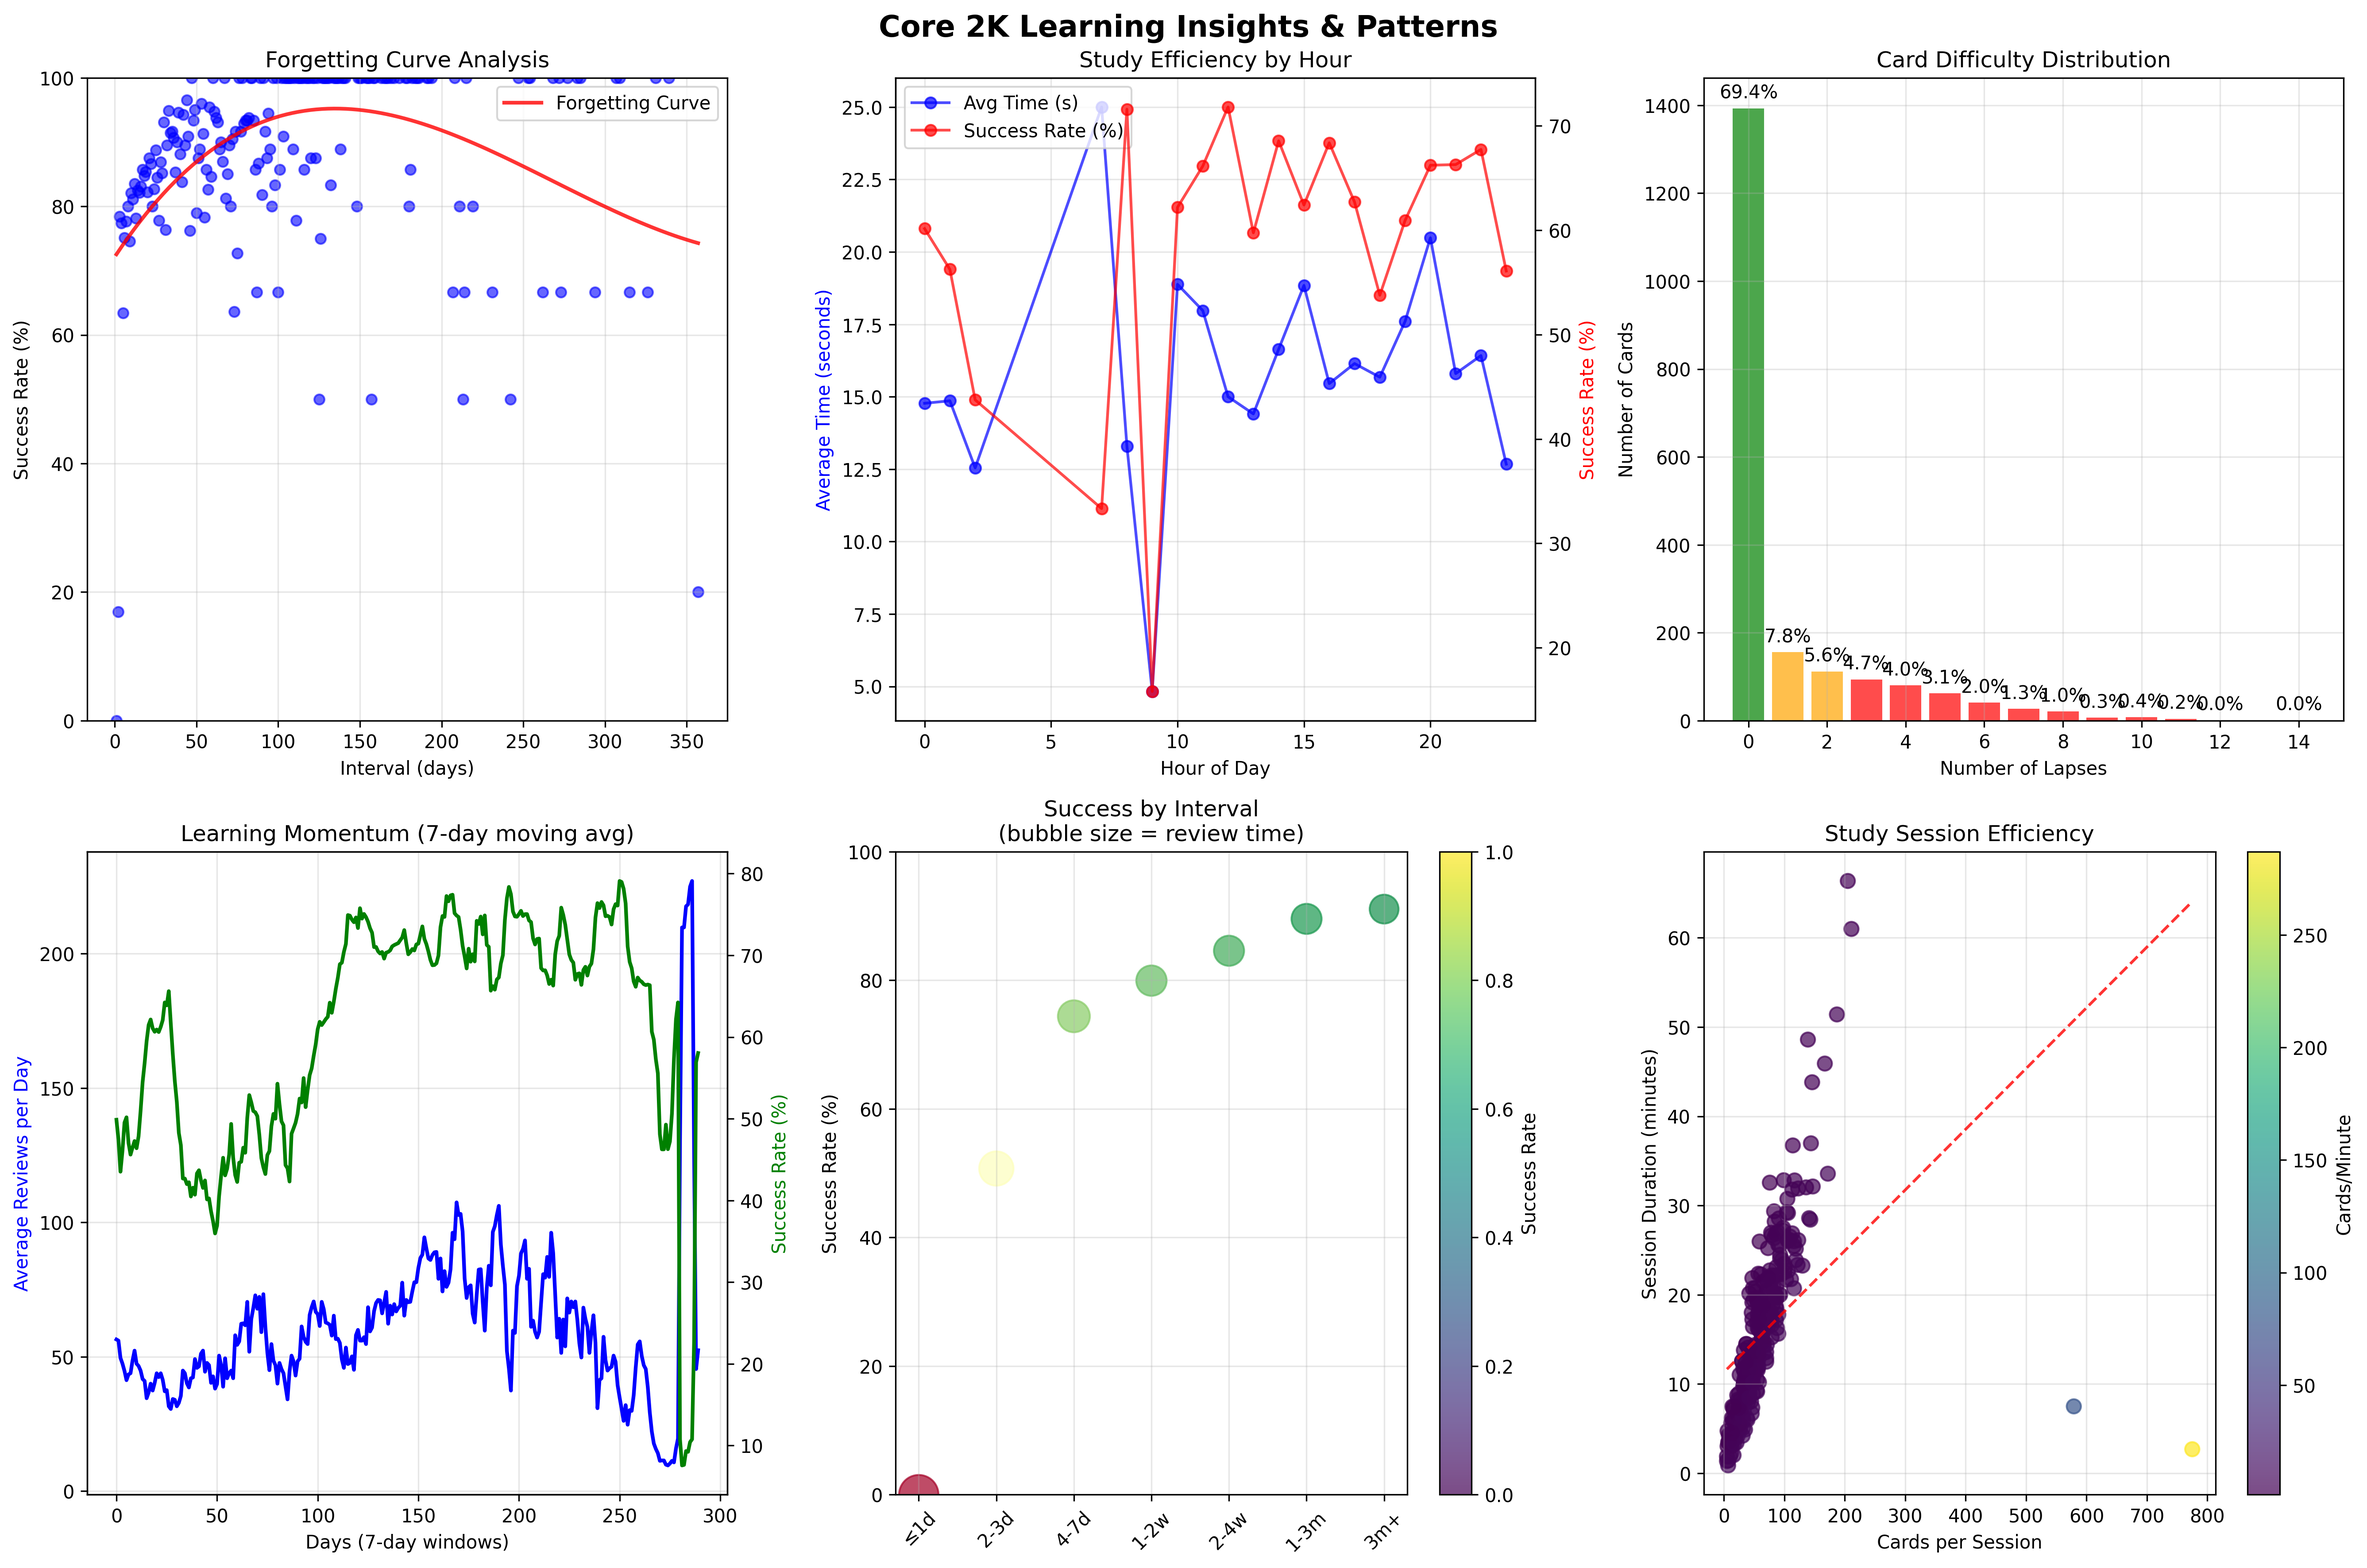
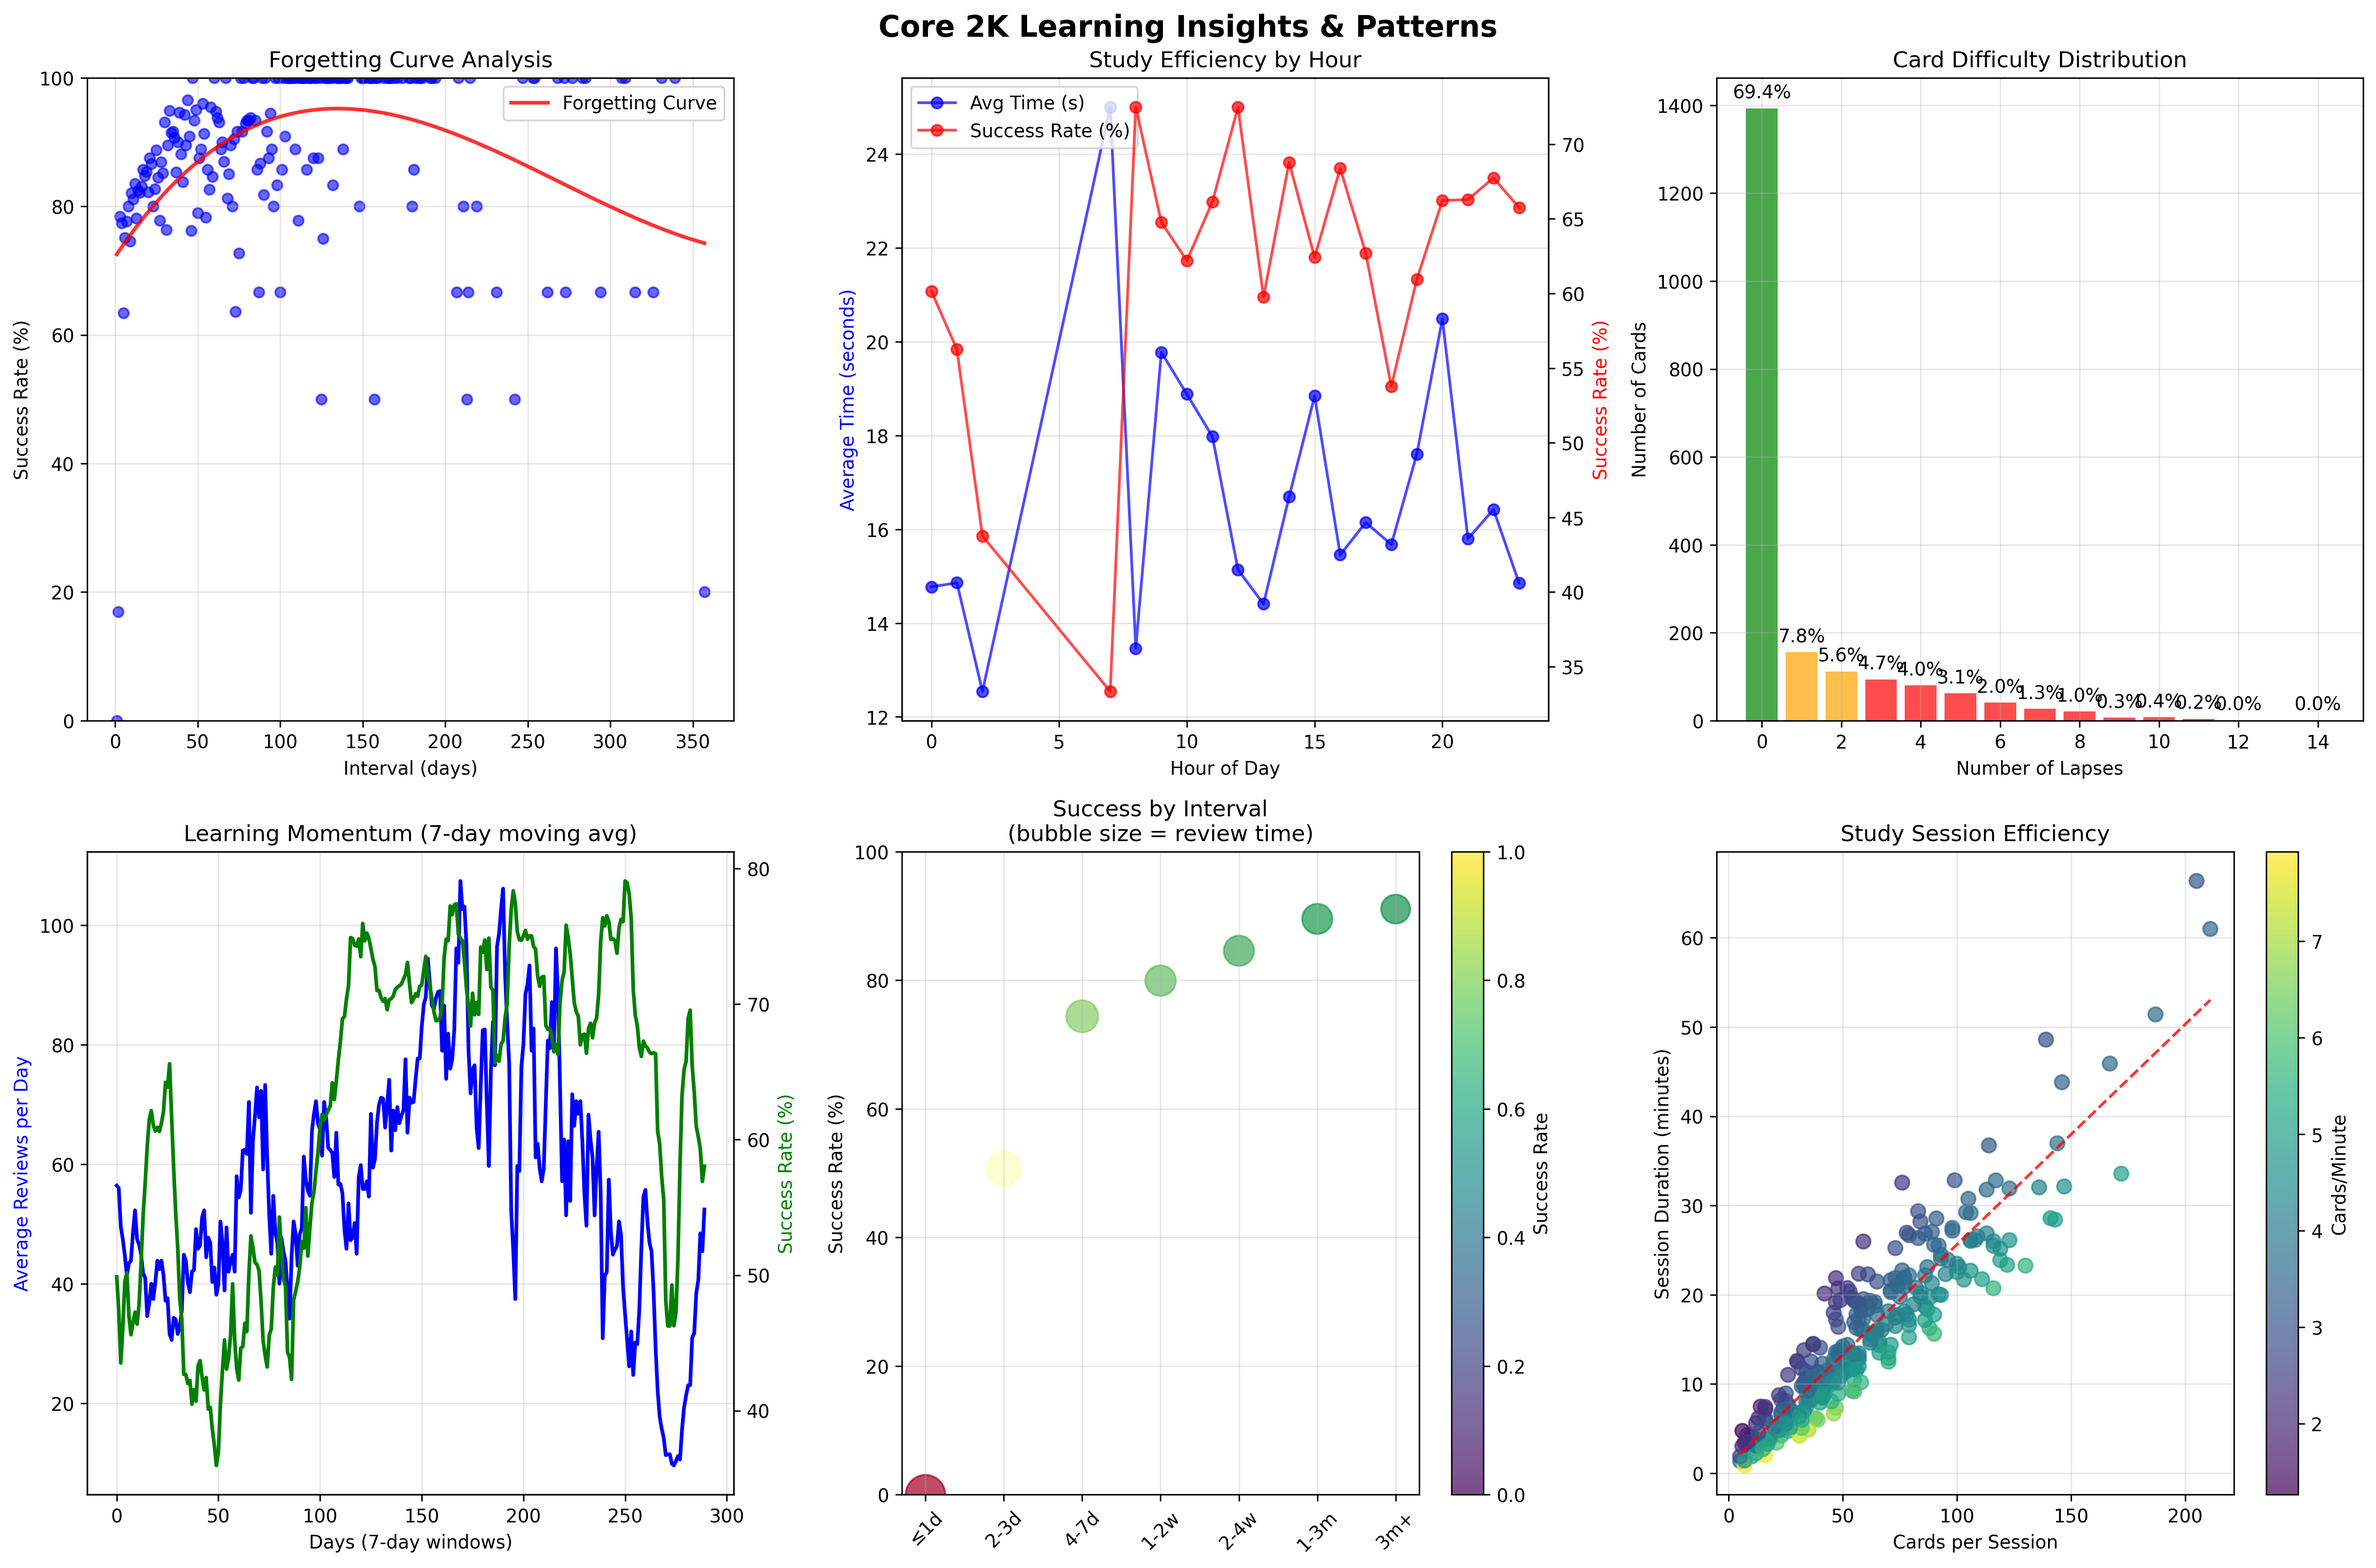
Exclude manual reschedules from analysis queries

diff --git a/scripts/advanced_anki_analysis.py b/scripts/advanced_anki_analysis.py
@@ -31,7 +31,7 @@ def get_learning_progression():
             COUNT(*) as review_count,
             AVG(r.time) as avg_time
         FROM revlog r
-        WHERE r.id > 0
+        WHERE r.id > 0 AND r.type != 4  -- Exclude manual reschedules (type 4)
         GROUP BY review_date, r.type
         ORDER BY review_date
     """)
@@ -115,7 +115,7 @@ def get_time_efficiency():
             AVG(r.time)/1000.0 as avg_seconds,
             SUM(CASE WHEN r.ease >= 3 THEN 1 ELSE 0 END) * 100.0 / COUNT(*) as success_rate
         FROM revlog r
-        WHERE r.id > 0
+        WHERE r.id > 0 AND r.type != 4  -- Exclude manual reschedules (type 4)
         GROUP BY review_date
         HAVING reviews_per_day >= 5  -- Only days with meaningful study
         ORDER BY review_date
@@ -287,7 +287,7 @@ def create_advanced_visualizations():
             COUNT(CASE WHEN r.type = 1 THEN 1 END) as reviewed,
             COUNT(CASE WHEN r.type = 2 THEN 1 END) as relearned
         FROM revlog r
-        WHERE r.id > 0
+        WHERE r.id > 0 AND r.type != 4  -- Exclude manual reschedules (type 4)
         GROUP BY review_date
         ORDER BY review_date
     """)
@@ -388,7 +388,7 @@ def create_advanced_visualizations():
             AVG(r.time)/1000.0 as avg_seconds,
             SUM(r.time)/1000.0/60.0 as total_minutes
         FROM revlog r
-        WHERE r.id > 0
+        WHERE r.id > 0 AND r.type != 4  -- Exclude manual reschedules (type 4)
         GROUP BY CAST(strftime('%w', date(r.id/1000, 'unixepoch')) AS INTEGER)
         ORDER BY CAST(strftime('%w', date(r.id/1000, 'unixepoch')) AS INTEGER)
     """)
@@ -427,7 +427,7 @@ def create_advanced_visualizations():
             SUM(CASE WHEN r.ease >= 3 THEN 1 ELSE 0 END) as daily_success,
             COUNT(*) as daily_total
         FROM revlog r
-        WHERE r.id > 0
+        WHERE r.id > 0 AND r.type != 4  -- Exclude manual reschedules (type 4)
         GROUP BY review_date
         ORDER BY review_date
     """)

diff --git a/scripts/predictive_anki_analysis.py b/scripts/predictive_anki_analysis.py
@@ -104,7 +104,7 @@ def create_predictive_analysis():
             AVG(CASE WHEN r.ease >= 3 THEN 1.0 ELSE 0.0 END) as success_rate,
             COUNT(*) as review_count
         FROM revlog r
-        WHERE r.id > 0
+        WHERE r.id > 0 AND r.type != 4  -- Exclude manual reschedules (type 4)
         GROUP BY hour
         HAVING review_count >= 5
         ORDER BY hour
@@ -199,7 +199,7 @@ def create_predictive_analysis():
             SUM(CASE WHEN r.ease >= 3 THEN 1 ELSE 0 END) as daily_success,
             AVG(r.time)/1000.0 as avg_time
         FROM revlog r
-        WHERE r.id > 0
+        WHERE r.id > 0 AND r.type != 4  -- Exclude manual reschedules (type 4)
         GROUP BY review_date
         HAVING daily_reviews >= 5
         ORDER BY review_date
@@ -268,7 +268,7 @@ def create_study_recommendations():
             AVG(r.time)/1000.0 as avg_time,
             COUNT(*) as review_count
         FROM revlog r
-        WHERE r.id > 0
+        WHERE r.id > 0 AND r.type != 4  -- Exclude manual reschedules (type 4)
         GROUP BY hour
         HAVING review_count >= 10
         ORDER BY (success_rate / avg_time) DESC
@@ -338,7 +338,7 @@ def create_study_recommendations():
             AVG(r.time)/1000.0 as avg_time,
             COUNT(*) as total_reviews
         FROM revlog r
-        WHERE r.id > 0
+        WHERE r.id > 0 AND r.type != 4  -- Exclude manual reschedules (type 4)
     """)
     
     performance = cursor.fetchone()

diff --git a/scripts/learning_insights.py b/scripts/learning_insights.py
@@ -71,7 +71,7 @@ def create_learning_insights():
             AVG(CASE WHEN r.ease >= 3 THEN 1.0 ELSE 0.0 END) * 100 as success_rate,
             COUNT(*) as review_count
         FROM revlog r
-        WHERE r.id > 0
+        WHERE r.id > 0 AND r.type != 4  -- Exclude manual reschedules (type 4)
         GROUP BY hour
         HAVING review_count >= 10
         ORDER BY hour
@@ -144,7 +144,7 @@ def create_learning_insights():
             COUNT(*) as daily_reviews,
             SUM(CASE WHEN r.ease >= 3 THEN 1 ELSE 0 END) as daily_success
         FROM revlog r
-        WHERE r.id > 0
+        WHERE r.id > 0 AND r.type != 4  -- Exclude manual reschedules (type 4)
         GROUP BY review_date
         ORDER BY review_date
     """)
@@ -243,7 +243,7 @@ def create_learning_insights():
             AVG(r.time)/1000.0 as avg_time_per_card,
             SUM(r.time)/1000.0/60.0 as total_session_minutes
         FROM revlog r
-        WHERE r.id > 0
+        WHERE r.id > 0 AND r.type != 4  -- Exclude manual reschedules (type 4)
         GROUP BY study_date
         HAVING session_size >= 5
         ORDER BY study_date

diff --git a/scripts/session_correlation_analysis.py b/scripts/session_correlation_analysis.py
@@ -50,7 +50,7 @@ def extract_session_statistics():
             MIN(r.id/1000) as session_start_timestamp,
             MAX(r.id/1000) as session_end_timestamp
         FROM revlog r
-        WHERE r.id > 0
+        WHERE r.id > 0 AND r.type != 4  -- Exclude manual reschedules (type 4)
         GROUP BY session_date
         HAVING total_cards >= 5  -- Only meaningful study sessions
         ORDER BY session_date
